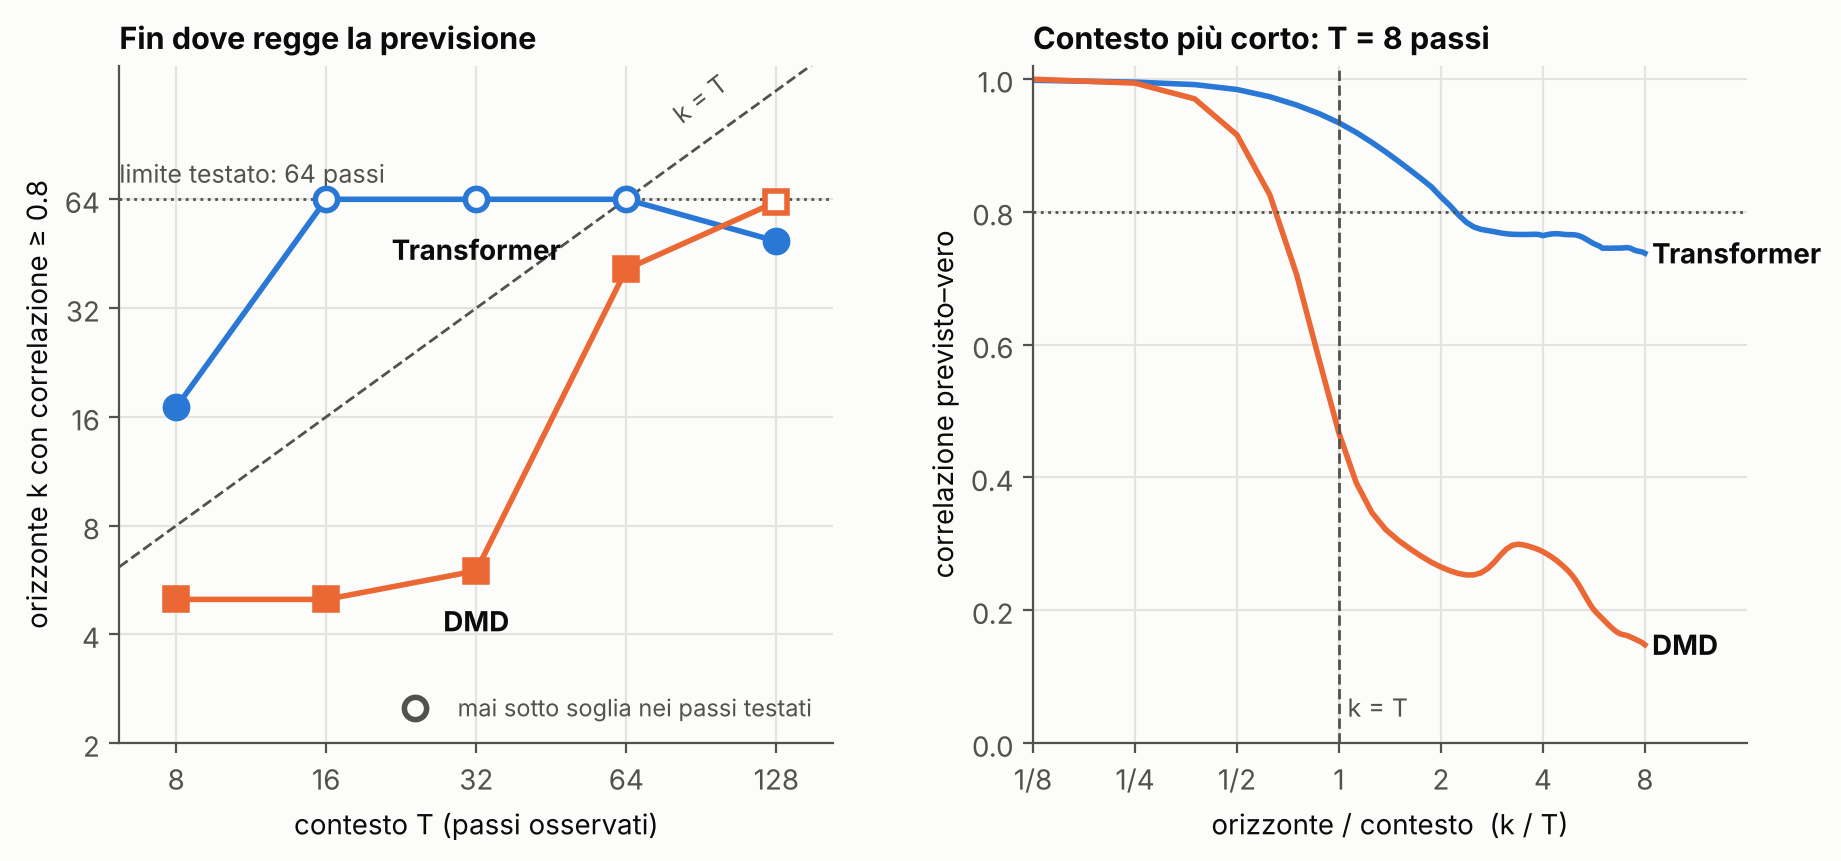
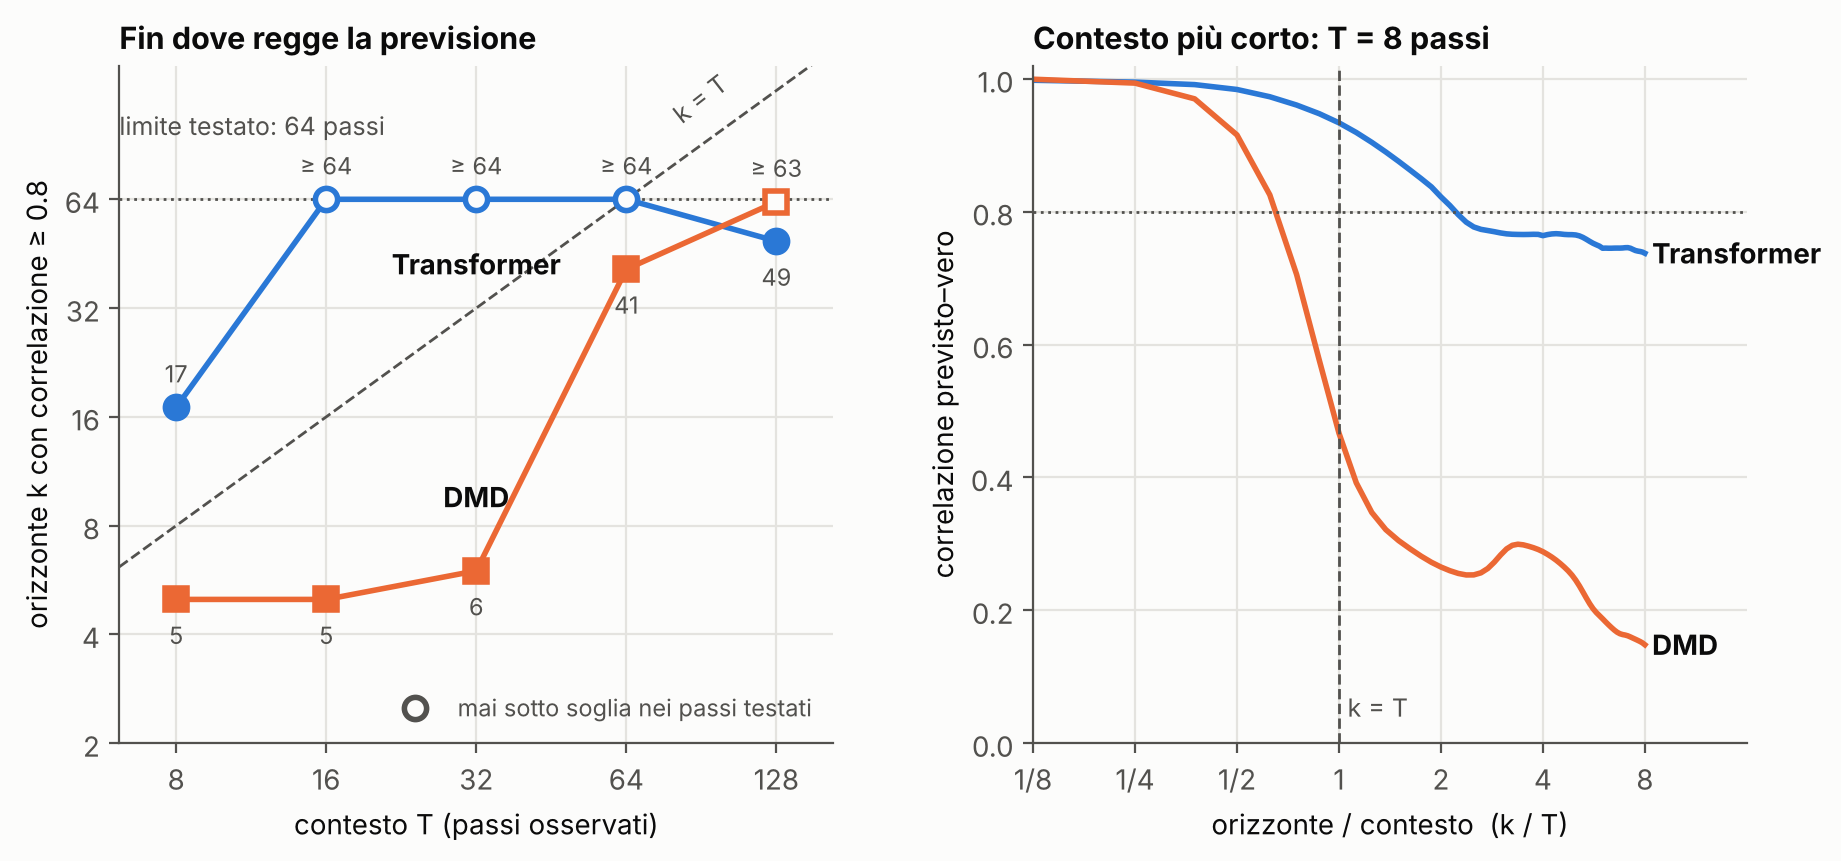
loss.w_edge (weight of the pair correlators), HPC stage W, DMD context-vs-time figure
losses: w_edge multiplies the correlator term of L_pred (default 1). Stage W: as S with w_edge=4 and the stop-gradient probe on.
tools/plot_dmd_context.py: DMD with windows from t=0 against DMD with every context ending at the same step.
Publish entries for stages W and X; values on the points of the horizon figure.

Claude-Session: https://claude.ai/code/session_01RVsj3kpAkgAhkU9q2gbYtU

diff --git a/Hamiltonian-Blind-In-Context-Propagator/tools/plot_dmd_context.py b/Hamiltonian-Blind-In-Context-Propagator/tools/plot_dmd_context.py
@@ -1,0 +1,69 @@
+"""Why DMD looks better with a long context: context length against point of the trajectory.
+
+    python -m tools.plot_dmd_context --data datasets/n10/test.h5 --out ../docs/figures/dmd_context_vs_time.png
+
+Windows that start at t = 0 (the standard evaluation) forecast later and later as T grows, where the signal is
+smaller. The same DMD is run with every context ending at the same step (--start), so only T changes."""
+from __future__ import annotations
+
+import argparse
+
+import h5py
+import matplotlib
+matplotlib.use("Agg")
+import matplotlib.pyplot as plt
+import numpy as np
+
+from eval.baselines import run_baselines
+from tools.plot_horizon import BLUE, GRID, INK, MUTED, ORANGE, SURF
+
+
+def main():
+    ap = argparse.ArgumentParser()
+    ap.add_argument("--data", required=True)
+    ap.add_argument("--T", type=int, nargs="+", default=[8, 16, 32, 64, 128])
+    ap.add_argument("--start", type=int, default=128)
+    ap.add_argument("--k", type=int, default=8)
+    ap.add_argument("--max_traj", type=int, default=48)
+    ap.add_argument("--out", default="dmd_context_vs_time.png")
+    a = ap.parse_args()
+    with h5py.File(a.data, "r") as f:
+        node = f["node"][: a.max_traj]
+    amp = np.sqrt((node ** 2).mean((2, 3))).mean(0)                       # (L,) rms of the single-qubit observables
+    run = lambda T, t0: run_baselines(a.data, ["dmd"], [T], a.k, a.max_traj, t0=t0, verbose=False)["dmd"][T]
+    zero = [run(T, 0) for T in a.T]
+    fixed = [run(T, a.start - T) for T in a.T]
+    for T, z, x in zip(a.T, zero, fixed):
+        print(f"T={T:4d}  from t=0: rmse {z['rmse_n'][-1]:.3f} rel {z['rel_rmse_n'][-1]:.2f}   "
+              f"ending at {a.start}: rmse {x['rmse_n'][-1]:.3f} rel {x['rel_rmse_n'][-1]:.2f}")
+
+    plt.rcParams.update({"font.size": 10, "axes.edgecolor": MUTED, "axes.labelcolor": INK, "xtick.color": MUTED,
+                         "ytick.color": MUTED, "axes.spines.top": False, "axes.spines.right": False})
+    fig, axs = plt.subplots(1, 3, figsize=(13.5, 4.2), facecolor=SURF, gridspec_kw=dict(wspace=0.3))
+    for x in axs:
+        x.set_facecolor(SURF); x.grid(color=GRID, lw=0.8); x.set_axisbelow(True)
+    ax, bx, cx = axs
+    ax.plot(np.arange(len(amp)), amp, color=INK, lw=2)
+    for T in a.T:  # where a window that starts at 0 begins to forecast
+        ax.plot(T, amp[T], "o", ms=8, color=ORANGE, mec=SURF, mew=2, zorder=3)
+        ax.annotate(f"T = {T}", (T, amp[T]), xytext=(6, 6), textcoords="offset points", color=MUTED, fontsize=8.5)
+    ax.set_xlabel("passo temporale"); ax.set_ylabel("ampiezza del segnale (osservabili a un qubit)")
+    ax.set_ylim(0, None); ax.set_xlim(0, len(amp))
+    ax.set_title("Il segnale si spegne nel tempo", loc="left", color=INK, fontsize=11, fontweight="bold")
+    ax.text(0.97, 0.9, "punti: da dove parte la previsione\nse la finestra comincia a t = 0", transform=ax.transAxes,
+            ha="right", va="top", color=MUTED, fontsize=8.5)
+    for x, key, ylab, title in ((bx, "rmse_n", f"RMSE del DMD a k = {a.k}", "Errore assoluto"),
+                                (cx, "rel_rmse_n", f"errore / ampiezza del segnale a k = {a.k}", "Errore relativo")):
+        for res, col, mk, name, dy in ((zero, ORANGE, "s", "finestra da t = 0", 10), (fixed, BLUE, "o", f"previsione sempre dal passo {a.start}", -16)):
+            y = [r[key][-1] for r in res]
+            x.plot(a.T, y, color=col, lw=2); x.plot(a.T, y, mk, ms=8, color=col, mec=SURF, mew=2, label=name)
+        x.legend(loc="lower left", frameon=False, fontsize=9, labelcolor=INK)
+        x.set_xscale("log", base=2); x.set_xticks(a.T); x.set_xticklabels(a.T); x.set_ylim(0, None)
+        x.set_xlabel("contesto T del DMD"); x.set_ylabel(ylab)
+        x.set_title(title, loc="left", color=INK, fontsize=11, fontweight="bold")
+    fig.savefig(a.out, dpi=200, bbox_inches="tight", facecolor=SURF)
+    print("wrote", a.out)
+
+
+if __name__ == "__main__":
+    main()

diff --git a/Hamiltonian-Blind-In-Context-Propagator/losses.py b/Hamiltonian-Blind-In-Context-Propagator/losses.py
@@ -31,26 +31,29 @@ def k_weights(H: int, mode: str, device) -> torch.Tensor:
     return torch.ones(H, device=device)
 
 
-def _sq_err(pn, pe, tn, te):
-    """(..., H): mean square over 3n node entries plus mean square over 9n(n-1) off-diagonal edge entries."""
+def _sq_err(pn, pe, tn, te, w_edge: float = 1.0):
+    """(..., H): mean square over 3n node entries plus w_edge times the mean square over the 9n(n-1) off-diagonal
+    edge entries."""
     n = pn.shape[-2]
     ln = ((pn - tn) ** 2).mean((-1, -2))
     mask = offdiag(n, pn.device)[..., None]
     le = (((pe - te) ** 2) * mask).sum((-1, -2, -3)) / (9 * n * (n - 1))
-    return ln + le
+    return ln + w_edge * le
 
 
-def pred_loss(pn, pe, tn, te, w_k=None, anchor=None, amp_floor=None):
+def pred_loss(pn, pe, tn, te, w_k=None, anchor=None, amp_floor=None, w_edge: float = 1.0):
     """pn/tn (..., H, n, 3), pe/te (..., H, n, n, 9). Averaged over anchors and k (Eq. 27).
     anchor = (node0 (B, A, n, 3), edge0 (B, A, n, n, 9)): per-k normalisation, each k divided by the
     batch persistence error at that k (detached), so no horizon dominates.
     amp_floor: relative loss, each (window, k) divided by the power of the true signal there
-    (floored at amp_floor^2), so late windows with small observables weigh as much as early ones."""
-    l = _sq_err(pn, pe, tn, te)                                            # (B, A, H)
+    (floored at amp_floor^2), so late windows with small observables weigh as much as early ones.
+    w_edge: weight of the pair correlators against the single-qubit observables. The correlators are about half
+    as large, so with w_edge = 1 their squared error counts about a quarter; w_edge = 4 evens the two out."""
+    l = _sq_err(pn, pe, tn, te, w_edge)                                    # (B, A, H)
     if amp_floor is not None:
-        l = l / _sq_err(torch.zeros_like(tn), torch.zeros_like(te), tn, te).clamp_min(amp_floor ** 2)
+        l = l / _sq_err(torch.zeros_like(tn), torch.zeros_like(te), tn, te, w_edge).clamp_min(amp_floor ** 2)
     elif anchor is not None:
-        p = _sq_err(anchor[0][..., None, :, :], anchor[1][..., None, :, :, :], tn, te)
+        p = _sq_err(anchor[0][..., None, :, :], anchor[1][..., None, :, :, :], tn, te, w_edge)
         l = l / (p.detach().mean((0, 1)) + 1e-6)
     elif w_k is not None:
         l = l * w_k
@@ -95,7 +98,7 @@ def total_loss(pred: dict, batch: dict, tn, te, cfg: dict):
     w = k_weights(H, lc.get("w_k", "uniform"), tn.device)  # (H,)
     anchor = (pred["node0"], pred["edge0"]) if lc.get("per_k_norm", False) else None
     amp = lc.get("amp_floor", 0.03) if lc.get("amp_norm", False) else None
-    l_pred = pred_loss(pred["node"], pred["edge"], tn, te, w, anchor, amp)
+    l_pred = pred_loss(pred["node"], pred["edge"], tn, te, w, anchor, amp, float(lc.get("w_edge", 1.0)))
     l_phys = phys_loss(pred["node"], pred["edge"]) if lc["lambda_phys"] > 0 else tn.new_zeros(())
     if "probe" in pred and lc["lambda_probe"] > 0:  # never a target of the body: only for the old runs
         l_probe, probe_logs = probe_loss(pred["probe"], batch)

diff --git a/Hamiltonian-Blind-In-Context-Propagator/scripts/hpc/publish.py b/Hamiltonian-Blind-In-Context-Propagator/scripts/hpc/publish.py
@@ -64,6 +64,16 @@ for fam, desc in FAMS.items():
                                             ("n10_small_roll", f"n10_small_roll_on_{fam}", "training solo TFIM", True)],
                  f"n10: training su 6 famiglie, test su {desc} (HPC)", f"Come la voce del test misto, ma il test contiene solo la famiglia: {desc} (300 hamiltoniane nuove)."))
     extra[f"n10_mix_roll_on_{fam}"] = dict(MIXB, data=f"datasets/n10mix/test_{fam}.h5")
+jobs.append(("n10_small_roll_we4", [("n10_small_roll", "n10_small_roll", "peso correlatori 1 (riferimento)", False),
+                                    ("n10_small_roll_we4", "n10_small_roll_we4", "peso correlatori 4", True)],
+             "n10: correlatori pesati 4 volte nella perdita (HPC)",
+             "Come il roll out a blocchi da 16, ma l'errore sui correlatori di coppia pesa 4 volte (stessa scala dei termini a un qubit). Sonda lineare di h, J e grafo attiva con stop-gradient: non entra nel modello, misura solo quanto i parametri si leggono dalle feature."))
+extra["n10_small_roll_we4"] = dict(BIG, data="datasets/n10/test.h5", block=16)
+for st in (128, 64):
+    jobs.append((f"n10_small_roll_start{st}", [("n10_small_roll", f"n10_small_roll_start{st}", f"previsione dal passo {st}", False)],
+                 f"n10: contesto variabile, previsione sempre dal passo {st} (HPC)",
+                 f"Il modello a blocchi da 16 rivalutato con tutti i contesti che finiscono al passo {st} (finestra t0 = {st} - T): separa la lunghezza del contesto dal punto della traiettoria. La traiettoria di esempio parte invece da t = 0."))
+    extra[f"n10_small_roll_start{st}"] = dict(BIG, data="datasets/n10/test.h5", block=16, ckpt="runs/n10_small_roll/last.pt")
 os.environ.setdefault("HBICP_DMD_LIB", os.path.abspath("datasets/n10sets/dmd_lib.npy"))
 for name, keep, label, notes in jobs:
     marker = f"results/{name}/.published"

diff --git a/Hamiltonian-Blind-In-Context-Propagator/tools/plot_horizon.py b/Hamiltonian-Blind-In-Context-Propagator/tools/plot_horizon.py
@@ -52,13 +52,15 @@ def main():
     ax.plot([Ts[0] / 1.3, Ts[-1] * 1.3], [Ts[0] / 1.3, Ts[-1] * 1.3], ls="--", color=MUTED, lw=1)
     ax.text(90, 100, "k = T", color=MUTED, rotation=38, ha="center", va="bottom", fontsize=9)
     ax.axhline(Hmax, color=MUTED, lw=1, ls=":")
-    ax.text(Ts[0] / 1.3, Hmax * 1.07, f"limite testato: {Hmax} passi", color=MUTED, fontsize=9, va="bottom")
+    ax.text(Ts[0] / 1.3, Hmax * 1.45, f"limite testato: {Hmax} passi", color=MUTED, fontsize=9, va="bottom")
     for name, col, mk, byT in series:
         pts = [(T, *reach(byT[str(T)]["corr_n"], a.thr), len(byT[str(T)]["corr_n"])) for T in Ts]
         ax.plot([p[0] for p in pts], [p[1] for p in pts], color=col, lw=2, zorder=3)
         for T, k, capped, H in pts:  # hollow marker: the correlation never dropped within the tested steps
             ax.plot(T, k, mk, ms=8, color=col, mfc=SURF if capped else col, mew=2, zorder=4)
-        ax.text(pts[2][0], pts[2][1] * 0.68, name, color=INK, fontsize=10, fontweight="bold", ha="center")
+            ax.annotate(f"{'≥ ' if capped else ''}{k}", (T, k), xytext=(0, 9 if (name == "DMD") == (T == Ts[-1]) else -16),
+                        textcoords="offset points", ha="center", color=MUTED, fontsize=8.5)
+        ax.text(pts[2][0], pts[2][1] * (0.62 if name == "Transformer" else 1.5), name, color=INK, fontsize=10, fontweight="bold", ha="center")
     ax.set_xscale("log", base=2); ax.set_yscale("log", base=2)
     ax.set_xticks(Ts); ax.set_xticklabels(Ts); ax.set_yticks([2, 4, 8, 16, 32, 64]); ax.set_yticklabels([2, 4, 8, 16, 32, 64])
     ax.set_xlim(Ts[0] / 1.3, Ts[-1] * 1.3); ax.set_ylim(2, 150)

diff --git a/Hamiltonian-Blind-In-Context-Propagator/tests/test_relative.py b/Hamiltonian-Blind-In-Context-Propagator/tests/test_relative.py
@@ -34,3 +34,13 @@ def test_amp_norm_loss_is_scale_free():
     l1 = pred_loss(pn, pe, tn, te, amp_floor=1e-4)
     l2 = pred_loss(0.1 * pn, 0.1 * pe, 0.1 * tn, 0.1 * te, amp_floor=1e-4)
     assert torch.allclose(l1, l2, rtol=1e-4) and torch.allclose(l1, torch.tensor(0.01), rtol=1e-3)
+
+
+def test_edge_weight():
+    """w_edge multiplies the correlator term only."""
+    torch.manual_seed(0)
+    pn, tn = torch.randn(2, 1, 3, 4, 3), torch.randn(2, 1, 3, 4, 3)
+    pe, te = torch.randn(2, 1, 3, 4, 4, 9), torch.randn(2, 1, 3, 4, 4, 9)
+    node_only = pred_loss(pn, te * 0, tn, te * 0)
+    l1, l4 = pred_loss(pn, pe, tn, te), pred_loss(pn, pe, tn, te, w_edge=4.0)
+    assert torch.allclose(l4 - node_only, 4 * (l1 - node_only), atol=1e-6)
